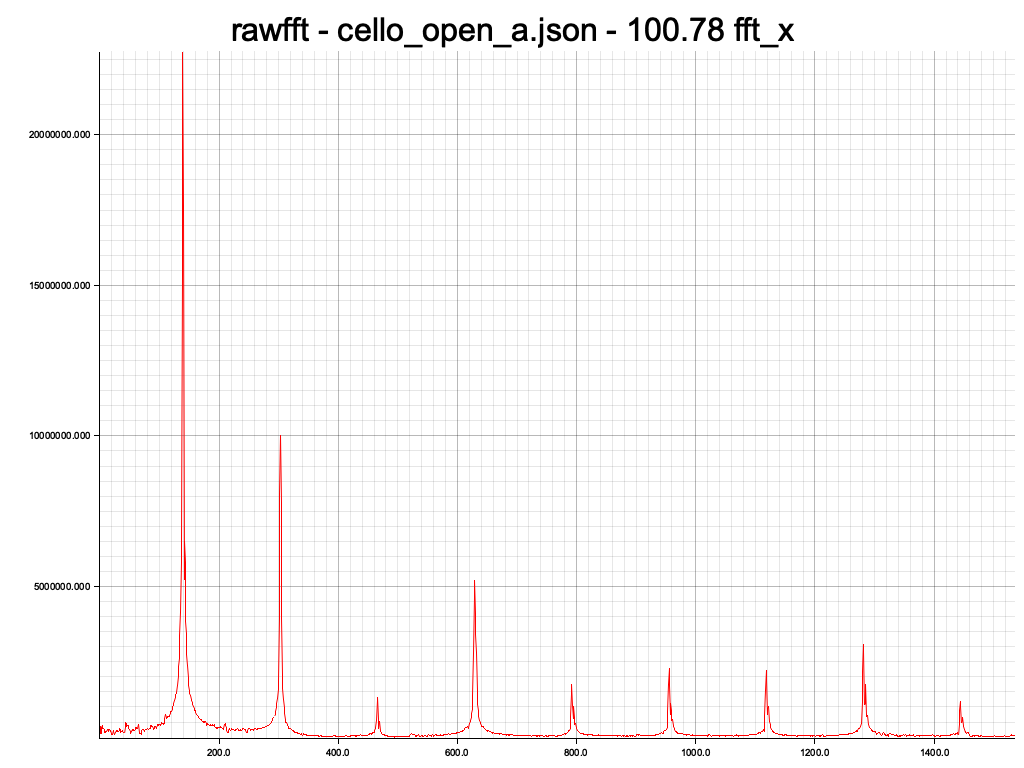
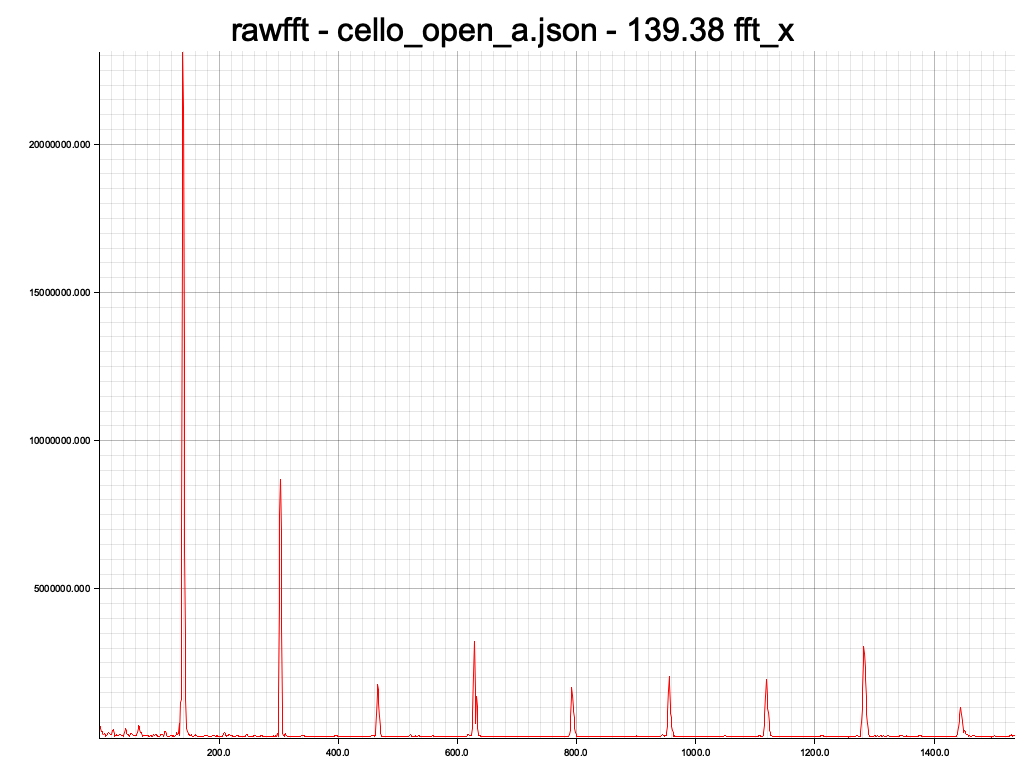
fixed issues introduced in raw fft

diff --git a/src/pitch/raw_fft.rs b/src/pitch/raw_fft.rs
@@ -4,7 +4,6 @@ use crate::core::{
     utils::interpolated_peak_at,
 };
 use rustfft::FftPlanner;
-use std::borrow::Borrow;
 
 use super::{FftPoint, PitchDetector};
 
@@ -33,11 +32,12 @@ impl RawFftDetector {
 
     fn process_fft(fft_space: &mut FftSpace) {
         let mut planner = FftPlanner::new();
-        let fft_len = fft_space.len();
+        let fft_len = fft_space.padded_len();
+        let signal_len = fft_space.signal_len();
         let fft = planner.plan_fft_forward(fft_len);
 
         let (space, scratch) = fft_space.workspace();
-        let hanning = apodize::hanning_iter(fft_len);
+        let hanning = apodize::hanning_iter(signal_len);
         space.iter_mut().zip(hanning).for_each(|(s, h)| s.re *= h);
         fft.process_with_scratch(space, scratch);
     }
@@ -61,9 +61,11 @@ impl RawFftDetector {
 
 impl PitchDetector for RawFftDetector {
     fn detect_with_fft_space(&mut self, sample_rate: f64, fft_space: &mut FftSpace) -> Option<f64> {
-        let (lower_limit, upper_limit) = Self::relevant_fft_range(fft_space.len(), sample_rate);
-        Self::detect_unscaled_freq((lower_limit, upper_limit), fft_space)
-            .map(|point| (lower_limit as f64 + point.x) * sample_rate / fft_space.len() as f64)
+        let (lower_limit, upper_limit) =
+            Self::relevant_fft_range(fft_space.padded_len(), sample_rate);
+        Self::detect_unscaled_freq((lower_limit, upper_limit), fft_space).map(|point| {
+            (lower_limit as f64 + point.x) * sample_rate / fft_space.padded_len() as f64
+        })
     }
 }
 

diff --git a/examples/spectrum_plot.rs b/examples/spectrum_plot.rs
@@ -68,7 +68,7 @@ fn plot_detector_for_files<D: PitchDetector + FrequencyDetectorTest>(
         let test_signal = test_signal(test_file)?;
         let mut fft_space = FftSpace::new(test_signal.len());
         fft_space.init_with_signal(test_signal.iter());
-        let fft_range = detector.relevant_fft_range(fft_space.len(), TEST_FILE_SAMPLE_RATE);
+        let fft_range = detector.relevant_fft_range(fft_space.padded_len(), TEST_FILE_SAMPLE_RATE);
         let fft_point_x = detector
             .detect_unscaled_freq_with_space(fft_range, &mut fft_space)
             .map(|p| p.x)
@@ -87,7 +87,7 @@ fn plot_detector_for_freq<D: PitchDetector + FrequencyDetectorTest>(
     let test_signal = sine_wave_signal(NUM_SAMPLES, freq, TEST_FILE_SAMPLE_RATE);
     let mut fft_space = FftSpace::new(test_signal.len());
     fft_space.init_with_signal(test_signal.iter());
-    let fft_range = detector.relevant_fft_range(fft_space.len(), TEST_FILE_SAMPLE_RATE);
+    let fft_range = detector.relevant_fft_range(fft_space.padded_len(), TEST_FILE_SAMPLE_RATE);
     let fft_point_x = detector
         .detect_unscaled_freq_with_space(fft_range, &mut fft_space)
         .map(|p| p.x)

diff --git a/src/core/fft_space.rs b/src/core/fft_space.rs
@@ -33,6 +33,7 @@ mod utils {
     }
 }
 pub struct FftSpace {
+    signal_len: usize,
     space: Vec<Complex<f64>>,
     scratch: Vec<Complex<f64>>,
 }
@@ -48,6 +49,7 @@ impl FftSpace {
             }
         };
         FftSpace {
+            signal_len: size,
             space: vec![Complex::zero(); padded_size],
             scratch: vec![Complex::zero(); padded_size],
         }
@@ -59,7 +61,11 @@ impl FftSpace {
         });
     }
 
-    pub fn len(&self) -> usize {
+    pub fn signal_len(&self) -> usize {
+        self.signal_len
+    }
+
+    pub fn padded_len(&self) -> usize {
         self.space.len()
     }
 

diff --git a/src/pitch/autocorrelation.rs b/src/pitch/autocorrelation.rs
@@ -34,7 +34,7 @@ impl AutocorrelationDetector {
 
     fn process_fft(fft_space: &mut FftSpace) {
         let mut planner = FftPlanner::new();
-        let forward_fft = planner.plan_fft_forward(fft_space.len());
+        let forward_fft = planner.plan_fft_forward(fft_space.padded_len());
 
         let (space, scratch) = fft_space.workspace();
         forward_fft.process_with_scratch(space, scratch);

diff --git a/src/pitch/cepstrum.rs b/src/pitch/cepstrum.rs
@@ -34,7 +34,7 @@ impl PowerCepstrum {
 
     fn process_fft(fft_space: &mut FftSpace) {
         let mut planner = FftPlanner::new();
-        let forward_fft = planner.plan_fft_forward(fft_space.len());
+        let forward_fft = planner.plan_fft_forward(fft_space.padded_len());
 
         let (space, scratch) = fft_space.workspace();
         forward_fft.process_with_scratch(space, scratch);
